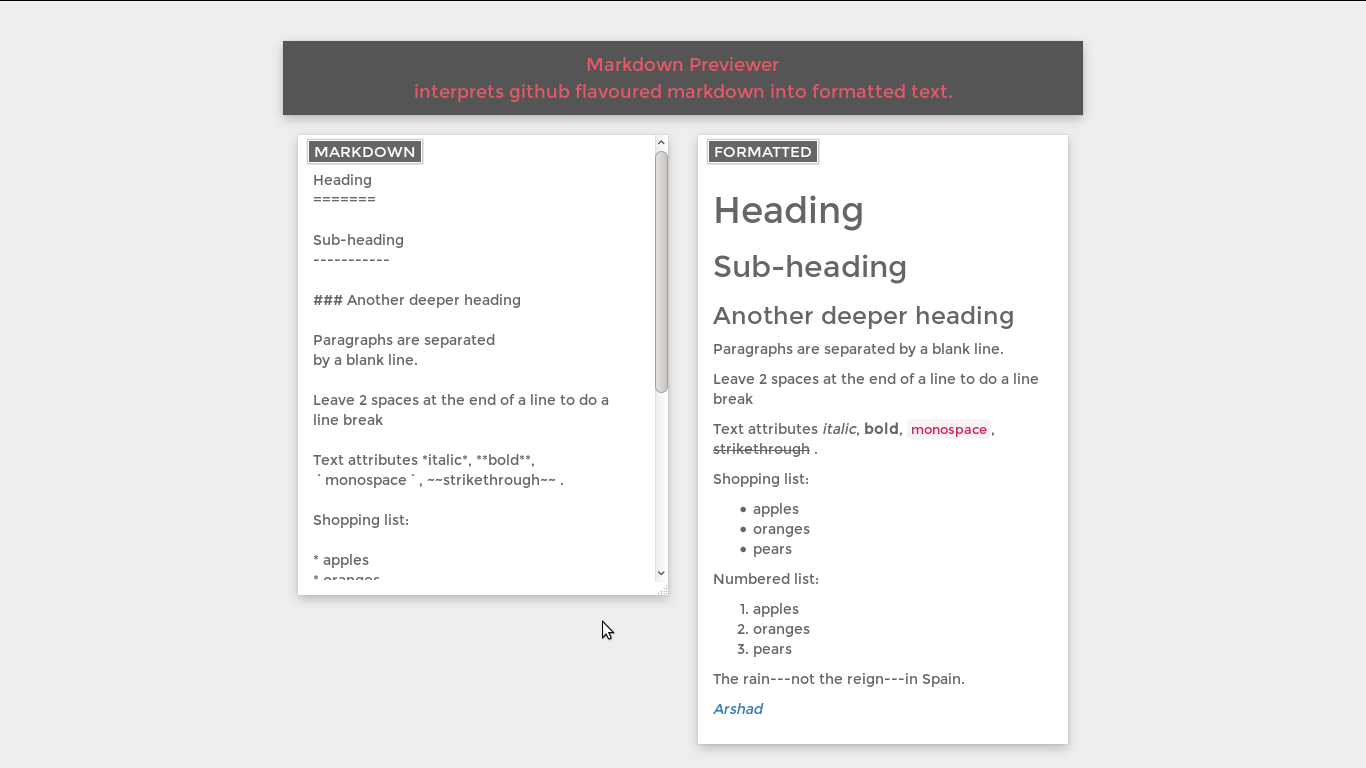
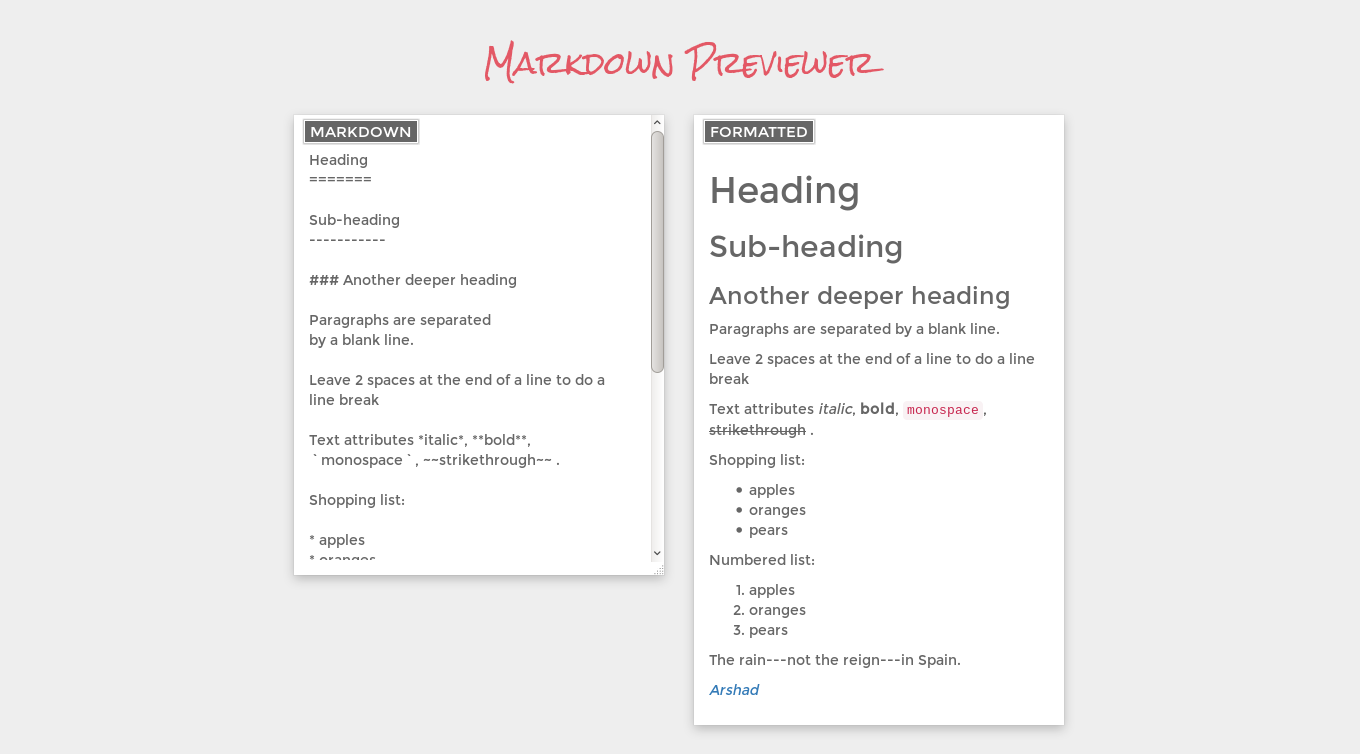
editing

Changed region(s): [[0.1853, 0.0305, 0.8029, 0.9761], [0.4632, 0.4881, 0.4941, 0.5186]]

diff --git a/sass/style.sass b/sass/style.sass
@@ -1,26 +1,26 @@
 *
-  font-family: 'Montserrat', sans-serif !important
+  font-family: 'Montserrat', sans-serif
   color: #666
 
-body 
+body
   background: #eee
 
 .main
-  background: #555
   margin-top: 40px
-  box-shadow: 0 4px 10px rgba(0,0,0,.22), 0 0 0 1px rgba(0,0,0,.04)
 
-.heading 
-  color: #E35865 
+.heading
+  font-family: 'Rock Salt', cursive
+  color: #E35865
   line-height: 1.5
   margin: 10px
-  
+  font-size: 30px
+
 #textarea
   resize: vertical
   width: 100%
   padding: 35px 15px 15px 15px
-  
-#result 
+
+#result
   max-width: 100%
   word-wrap: break-word
   padding: 35px 15px 15px 15px
@@ -31,7 +31,7 @@ body
   border: none
   box-shadow: 0 4px 10px rgba(0,0,0,.22), 0 0 0 1px rgba(0,0,0,.04)
 
-  
+
 .container
   max-width: 800px
 
@@ -49,7 +49,7 @@ body
   background: #666
   top: 5px
   box-shadow: 0 0 1px 1px rgba(0,0,0,.22), 0 0 0 1px rgba(0,0,0,.04)
-  
-.rightCol, .leftCol 
+
+.rightCol, .leftCol
   position: relative
   margin: 20px auto

diff --git a/index.html b/index.html
@@ -3,7 +3,9 @@
   <head>
     <meta charset="UTF-8">
     <title>Markdown Previewer</title>
+    <meta name="viewport" content="width=device-width, initial-scale=1.0">
     <link href="https://fonts.googleapis.com/css?family=Montserrat" rel="stylesheet">
+    <link href="https://fonts.googleapis.com/css?family=Rock+Salt" rel="stylesheet">
     <link rel='stylesheet prefetch' href='https://cdnjs.cloudflare.com/ajax/libs/twitter-bootstrap/3.3.7/css/bootstrap.min.css'>
     <link rel="stylesheet" href="css/style.css">
   </head>
@@ -11,7 +13,7 @@
     <div class="container">
       <div class="row">
         <div class="col-xs-12 main">
-          <h4 class="text-center heading">Markdown Previewer<br> interprets github flavoured markdown into formatted text.</h4>
+          <h4 class="text-center heading">Markdown Previewer</h4>
         </div>
       </div>
       <div class="row">

diff --git a/css/style.css b/css/style.css
@@ -1,5 +1,5 @@
 * {
-  font-family: "Montserrat", sans-serif !important;
+  font-family: "Montserrat", sans-serif;
   color: #666;
 }
 
@@ -8,15 +8,15 @@ body {
 }
 
 .main {
-  background: #555;
   margin-top: 40px;
-  box-shadow: 0 4px 10px rgba(0, 0, 0, 0.22), 0 0 0 1px rgba(0, 0, 0, 0.04);
 }
 
 .heading {
+  font-family: 'Rock Salt', cursive;
   color: #E35865;
   line-height: 1.5;
   margin: 10px;
+  font-size: 30px;
 }
 
 #textarea {
